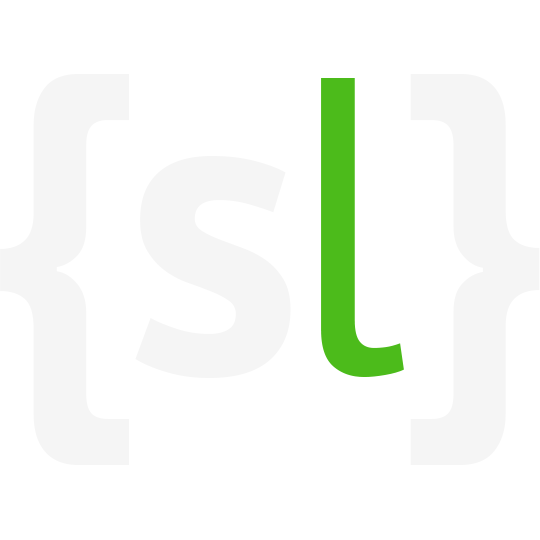
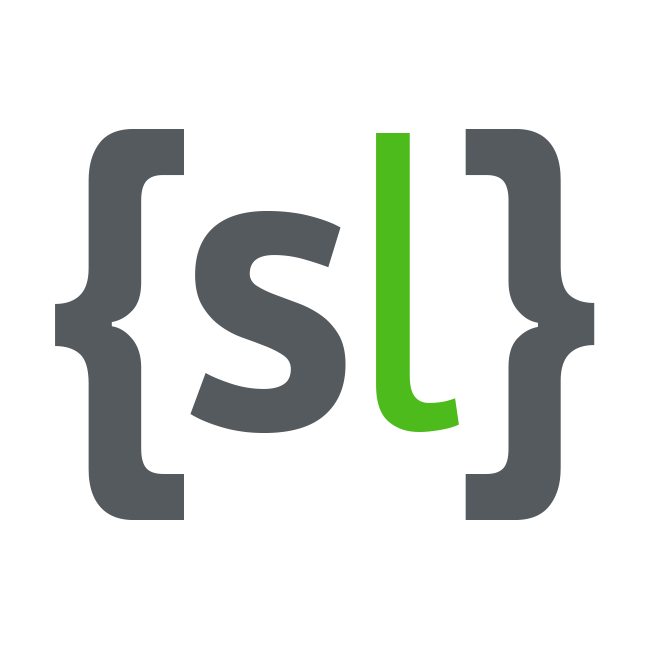
updated styling

Changed region(s): [[0.563, 0.1185, 0.9185, 0.8], [0.0593, 0.1778, 0.2963, 0.8], [0.2963, 0.3259, 0.5333, 0.6815]]

diff --git a/public/style.css b/public/style.css
@@ -1,5 +1,9 @@
 @import url('https://fonts.googleapis.com/css?family=PT+Sans:400,700&display=swap');
 
+*:focus {
+  outline: none;
+}
+
 html,
 body,
 #app,
@@ -9,6 +13,7 @@ body,
 
 body {
   font-family: 'PT Sans', sans-serif;
+  color: #798084;
   background-color: #eaeaea;
   margin: 0;
 }
@@ -16,7 +21,16 @@ body {
 button {
   border-radius: 5px;
   cursor: pointer;
-  border: 1px solid rgba(0, 0, 0, 0.1);
+  border: none;
+  font-family: 'PT Sans', sans-serif;
+  font-weight: 700;
+  color: #f5f5f5;
+  padding: 5px 10px;
+}
+
+button,
+input:checked + .slider {
+  background-color: #4cbb1a;
 }
 
 a {
@@ -59,6 +73,7 @@ form div {
 form input,
 select {
   color: rgba(60, 60, 60, 0.6);
+  font-family: 'PT Sans', sans-serif;
   font-size: 16px;
   background-color: rgba(255, 255, 255, 0.7);
   border-radius: 5px;
@@ -110,9 +125,13 @@ form label {
   user-select: none;
 }
 
+#logo span,
+#settings-bar a:hover {
+  color: #4cbb1b;
+}
+
 #logo span {
   font-weight: 400;
-  color: #4cbb1b;
 }
 
 #logo::before,
@@ -142,10 +161,6 @@ form label {
 }
 
 #nav-editor-button {
-  background-color: #4cbb1a;
-  padding: 10px;
-  border-radius: 5px;
-  height: 10px;
   margin-right: 20px;
 }
 
@@ -327,7 +342,7 @@ form label {
   box-shadow: 0 0 2px rgba(0, 0, 0, 0.2);
   border-radius: 5px;
   padding: 10px;
-  margin: 20px auto;
+  margin: 50px auto;
   width: 300px;
   text-align: center;
   background-color: #f5f5f5;
@@ -338,7 +353,6 @@ form label {
   font-size: 1.2vw;
   padding: 1.6% 1%;
   width: 84%;
-  filter: hue-rotate(190deg);
 }
 
 #auth-form i.input-icon {
@@ -350,6 +364,9 @@ form label {
 
 #auth-form hr {
   margin: 2% 5%;
+  height: 1px;
+  border: none;
+  background: rgba(0, 0, 0, 0.1);
 }
 
 #settings-bar {
@@ -358,7 +375,13 @@ form label {
   border-bottom: 1px solid rgba(0, 0, 0, 0.1);
   display: flex;
   align-items: center;
-  padding: 0 20px;
+  justify-content: space-between;
+  padding: 0 30px;
+}
+
+#settings-bar > div {
+  display: flex;
+  align-items: center;
 }
 
 #settings-bar + div {
@@ -366,10 +389,18 @@ form label {
   pointer-events: none;
 }
 
+#settings-bar a,
 #settings-bar span {
-  color: #798084;
-  margin-right: 10px;
+  color: #b7bcbf;
   font-weight: 700;
+}
+
+#settings-bar a {
+  margin-left: 30px;
+}
+
+#settings-bar span {
+  margin-right: 10px;
 }
 
 .navbar {
@@ -418,12 +449,20 @@ form label {
   transition: transform 0.4s ease;
   border-radius: 50%;
 }
-input:checked + .slider {
-  background-color: #4cbb19;
-}
+
 input:focus + .slider {
   box-shadow: 0 0 1px #4cbb19;
 }
 input:checked + .slider:before {
   transform: translateX(26px);
+}
+
+.error-warning {
+  text-align: center;
+  opacity: 0;
+  transition: all 0.5s ease;
+}
+
+.error-warning.active {
+  opacity: 1;
 }

diff --git a/client/components/renderer.js b/client/components/renderer.js
@@ -1,6 +1,7 @@
 import React, {Component} from 'react'
 import {connect} from 'react-redux'
 import {updateStyle} from '../store/renderer'
+import {Link} from 'react-router-dom'
 import {selectElement, toggleBar} from '../store/styler'
 import {Div, P, StyleBar, EditMenu} from '../components'
 import {MenuProvider} from 'react-contexify'
@@ -32,15 +33,21 @@ class Renderer extends Component {
           className={this.props.styler.enabled ? 'edit-mode ' : ''}
         >
           <div id="settings-bar">
-            <span>Edit Mode</span>
-            <div
-              className="switch"
-              onClick={() => {
-                this.toggleEditMode()
-              }}
-            >
-              <input type="checkbox" checked={this.props.styler.enabled} />
-              <div className="slider" />
+            <div>
+              <span>Edit Mode</span>
+              <div
+                className="switch"
+                onClick={() => {
+                  this.toggleEditMode()
+                }}
+              >
+                <input type="checkbox" checked={this.props.styler.enabled} />
+                <div className="slider" />
+              </div>
+            </div>
+            <div>
+              <Link>Save Template</Link>
+              <Link>Download</Link>
             </div>
           </div>
           <MenuProvider id="menu_id">

diff --git a/client/components/edit-menu.js b/client/components/edit-menu.js
@@ -1,14 +1,12 @@
 import React, {Component} from 'react'
 import {connect} from 'react-redux'
-import {Menu, Item, Separator, Submenu} from 'react-contexify'
+import {Menu, Item, Separator, Submenu, animation} from 'react-contexify'
 import {
   selectType,
   createElement,
   removeElement,
   updateStyle
 } from '../store/renderer'
-
-// const onClick = () => console.log('event, props')
 
 class EditMenu extends Component {
   constructor() {
@@ -26,9 +24,6 @@ class EditMenu extends Component {
   }
 
   handleRemove({event}) {
-    // console.log('EVENT: ', event)
-    // console.log('PARENT: ', event.path[1].id)
-    // console.log('ID: ', event.srcElement.id)
     if (event.srcElement.id !== 'main') {
       this.props.removeElement(
         event.path[1].id === 'main' ? 'main' : Number(event.path[1].id),
@@ -39,7 +34,7 @@ class EditMenu extends Component {
 
   render() {
     return (
-      <Menu id="menu_id">
+      <Menu id="menu_id" animation={animation.fade}>
         <Submenu
           label="Add"
           arrow={<i className="fas fa-caret-right" />}

diff --git a/public/react-contextify.css b/public/react-contextify.css
@@ -270,13 +270,13 @@
 }
 
 .react-contexify__will-enter--fade {
-  -webkit-animation: react-contexify__fadeIn 0.3s ease;
-  animation: react-contexify__fadeIn 0.3s ease;
+  -webkit-animation: react-contexify__fadeIn 0.2s ease;
+  animation: react-contexify__fadeIn 0.2s ease;
 }
 
 .react-contexify__will-leave--fade {
-  -webkit-animation: react-contexify__fadeOut 0.3s ease;
-  animation: react-contexify__fadeOut 0.3s ease;
+  -webkit-animation: react-contexify__fadeOut 0.2s ease;
+  animation: react-contexify__fadeOut 0.2s ease;
 }
 
 @-webkit-keyframes react-contexify__flipInX {

diff --git a/client/components/navbar.js b/client/components/navbar.js
@@ -26,11 +26,11 @@ const Navbar = ({handleClick, isLoggedIn}) => (
           </Link>
 
           <div>
-            <div id="nav-editor-button">
+            <button type="button" id="nav-editor-button">
               <Link to="/editor" id="nav-editor">
                 Go to Editor <i className="fas fa-angle-right" />
               </Link>
-            </div>
+            </button>
             <div className="fas fa-user-circle" id="nav-user">
               <div id="nav-user-menu">
                 <Link to="/login">Login</Link>
